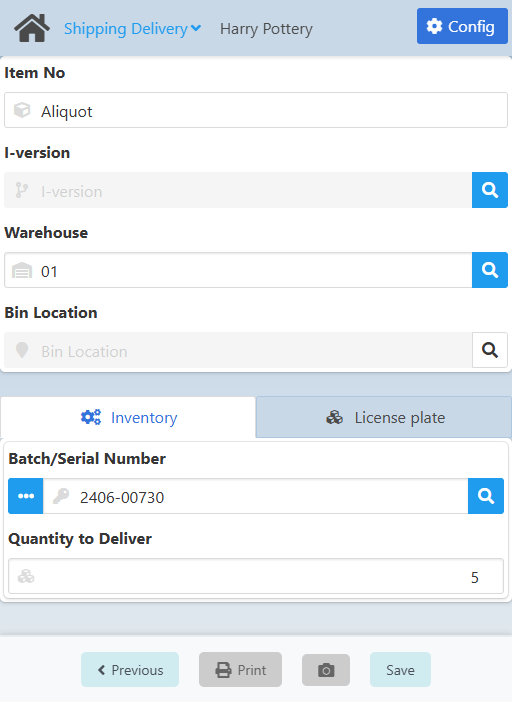
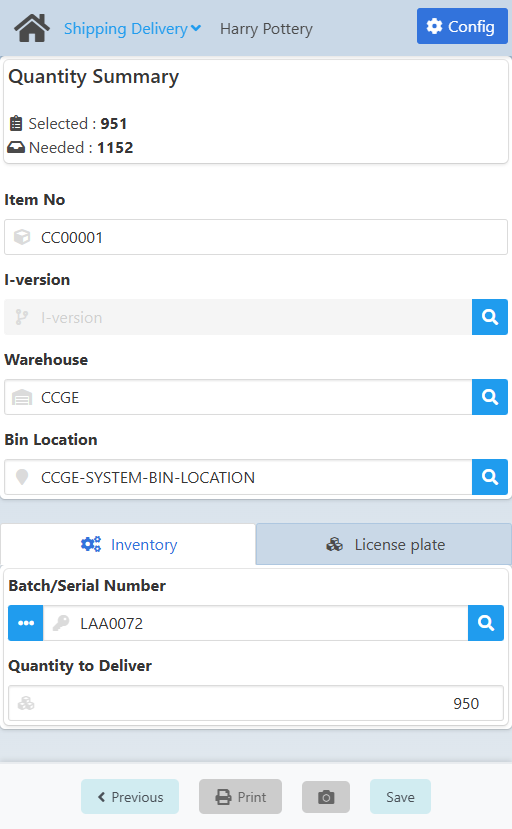
Update Shipping Delivery with changes/improvements made

diff --git a/docs/apps/shipping_delivery.md b/docs/apps/shipping_delivery.md
@@ -276,6 +276,12 @@ You can use individual stock and/or you can select stock that is linked to **Lic
   </TabItem>
 </Tabs>
 
+On the **Quantity Summary** section up top you can see the **Selected** and **Needed** quantities. The latter tells you the quantity left to complete the order with this item, whereas the former shows the quantity that you have picked so far of this item for delivery.
+
+:::note[INFO]
+If the **Selected** quantity is <span style={{color: "red", textDecoration: "underline"}}>red and underlined</span>, it means you are **over-allocating**, so beware.
+:::
+
 The **Item No** comes from the previously chosen line.
 
 Click the <IIcon icon="iconamoon:search-bold" width="17" height="17" /> button on the fields to open the search modals. You have the **I-Version**, **Warehouse** and **Bin Location**.
